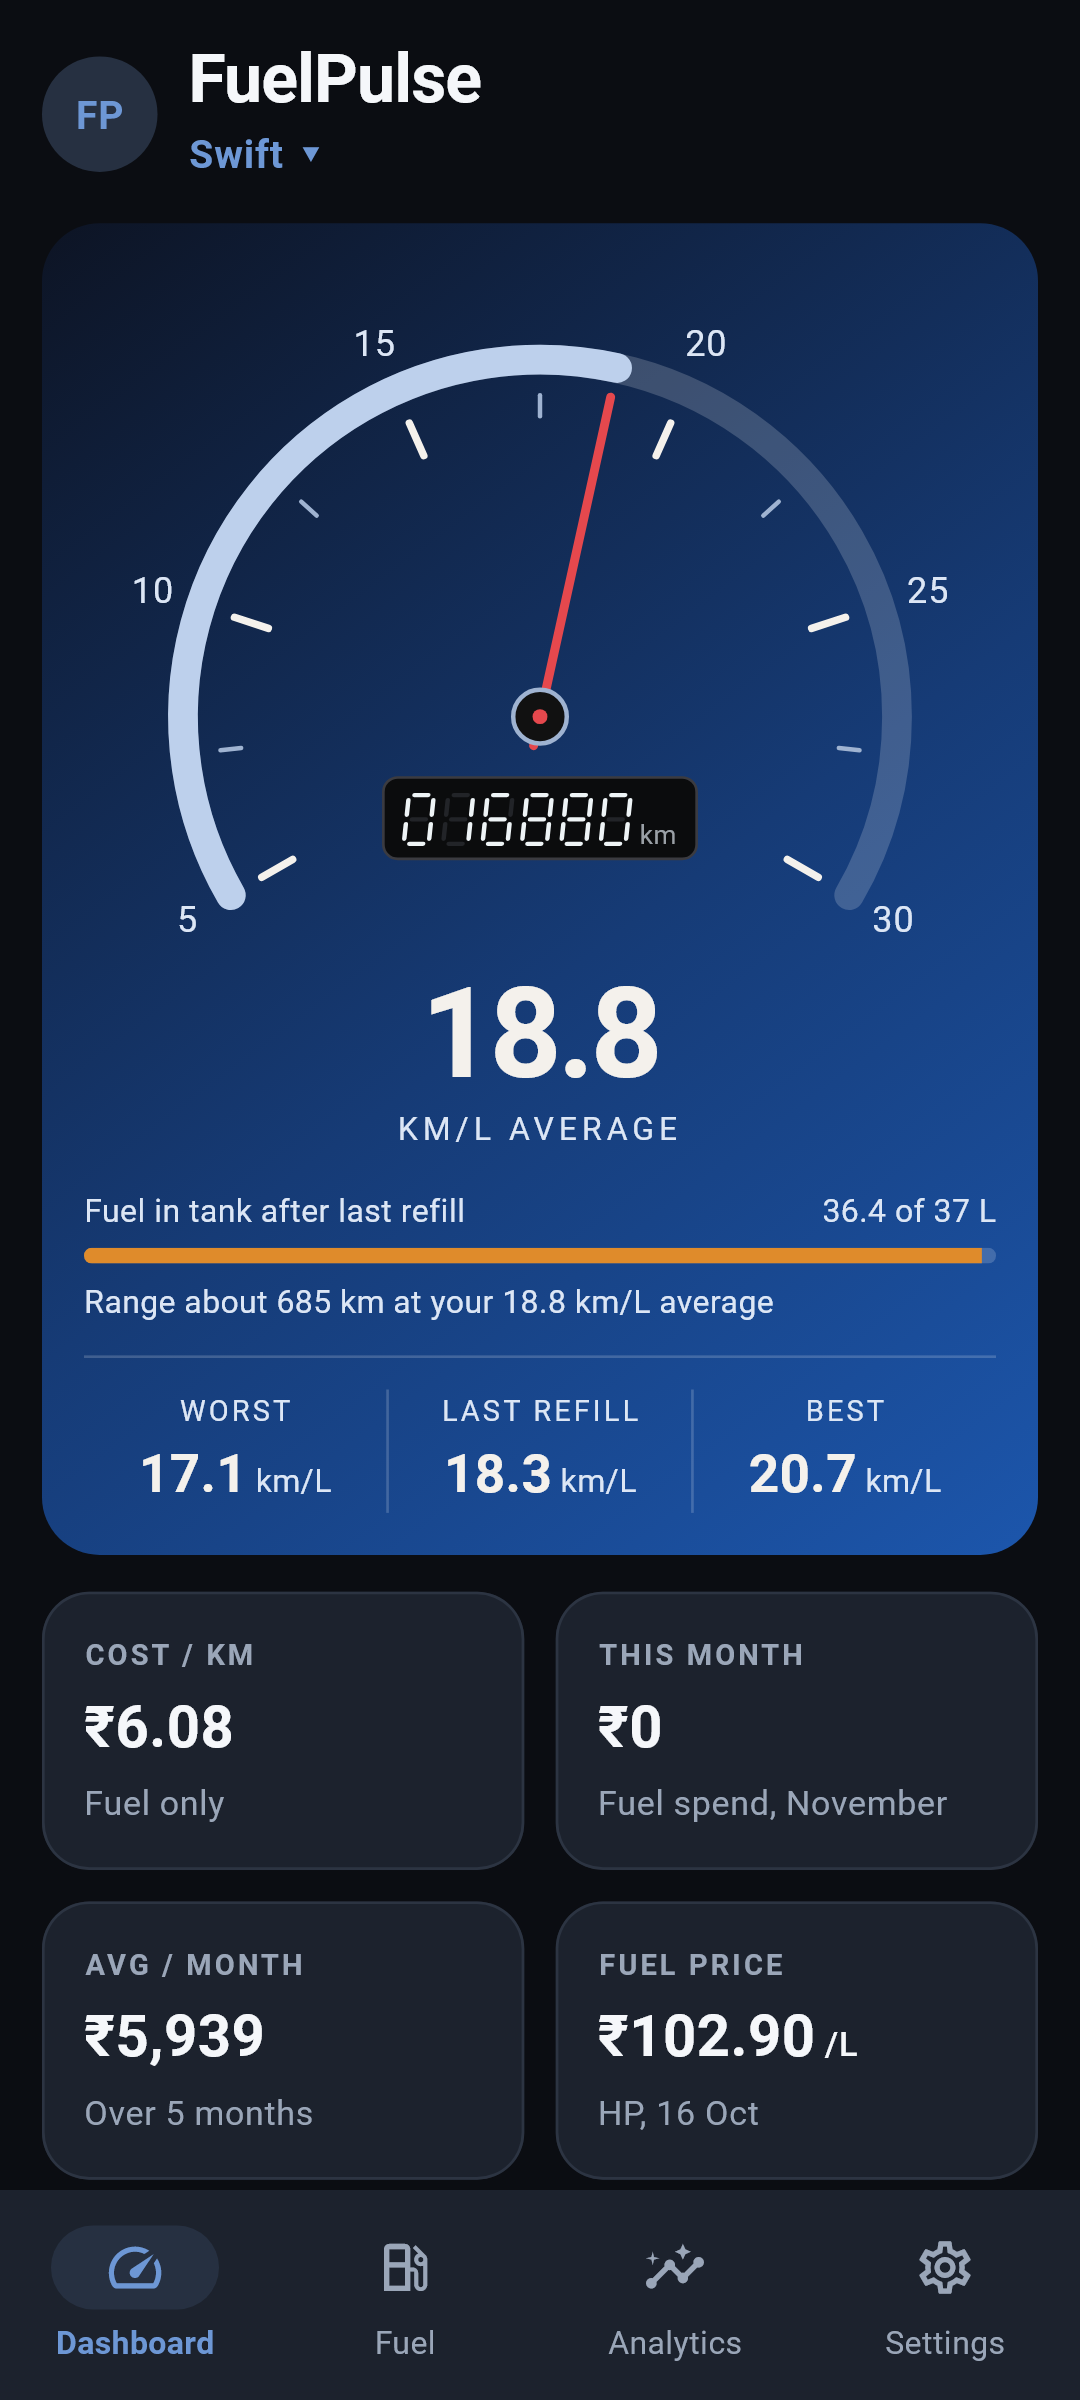
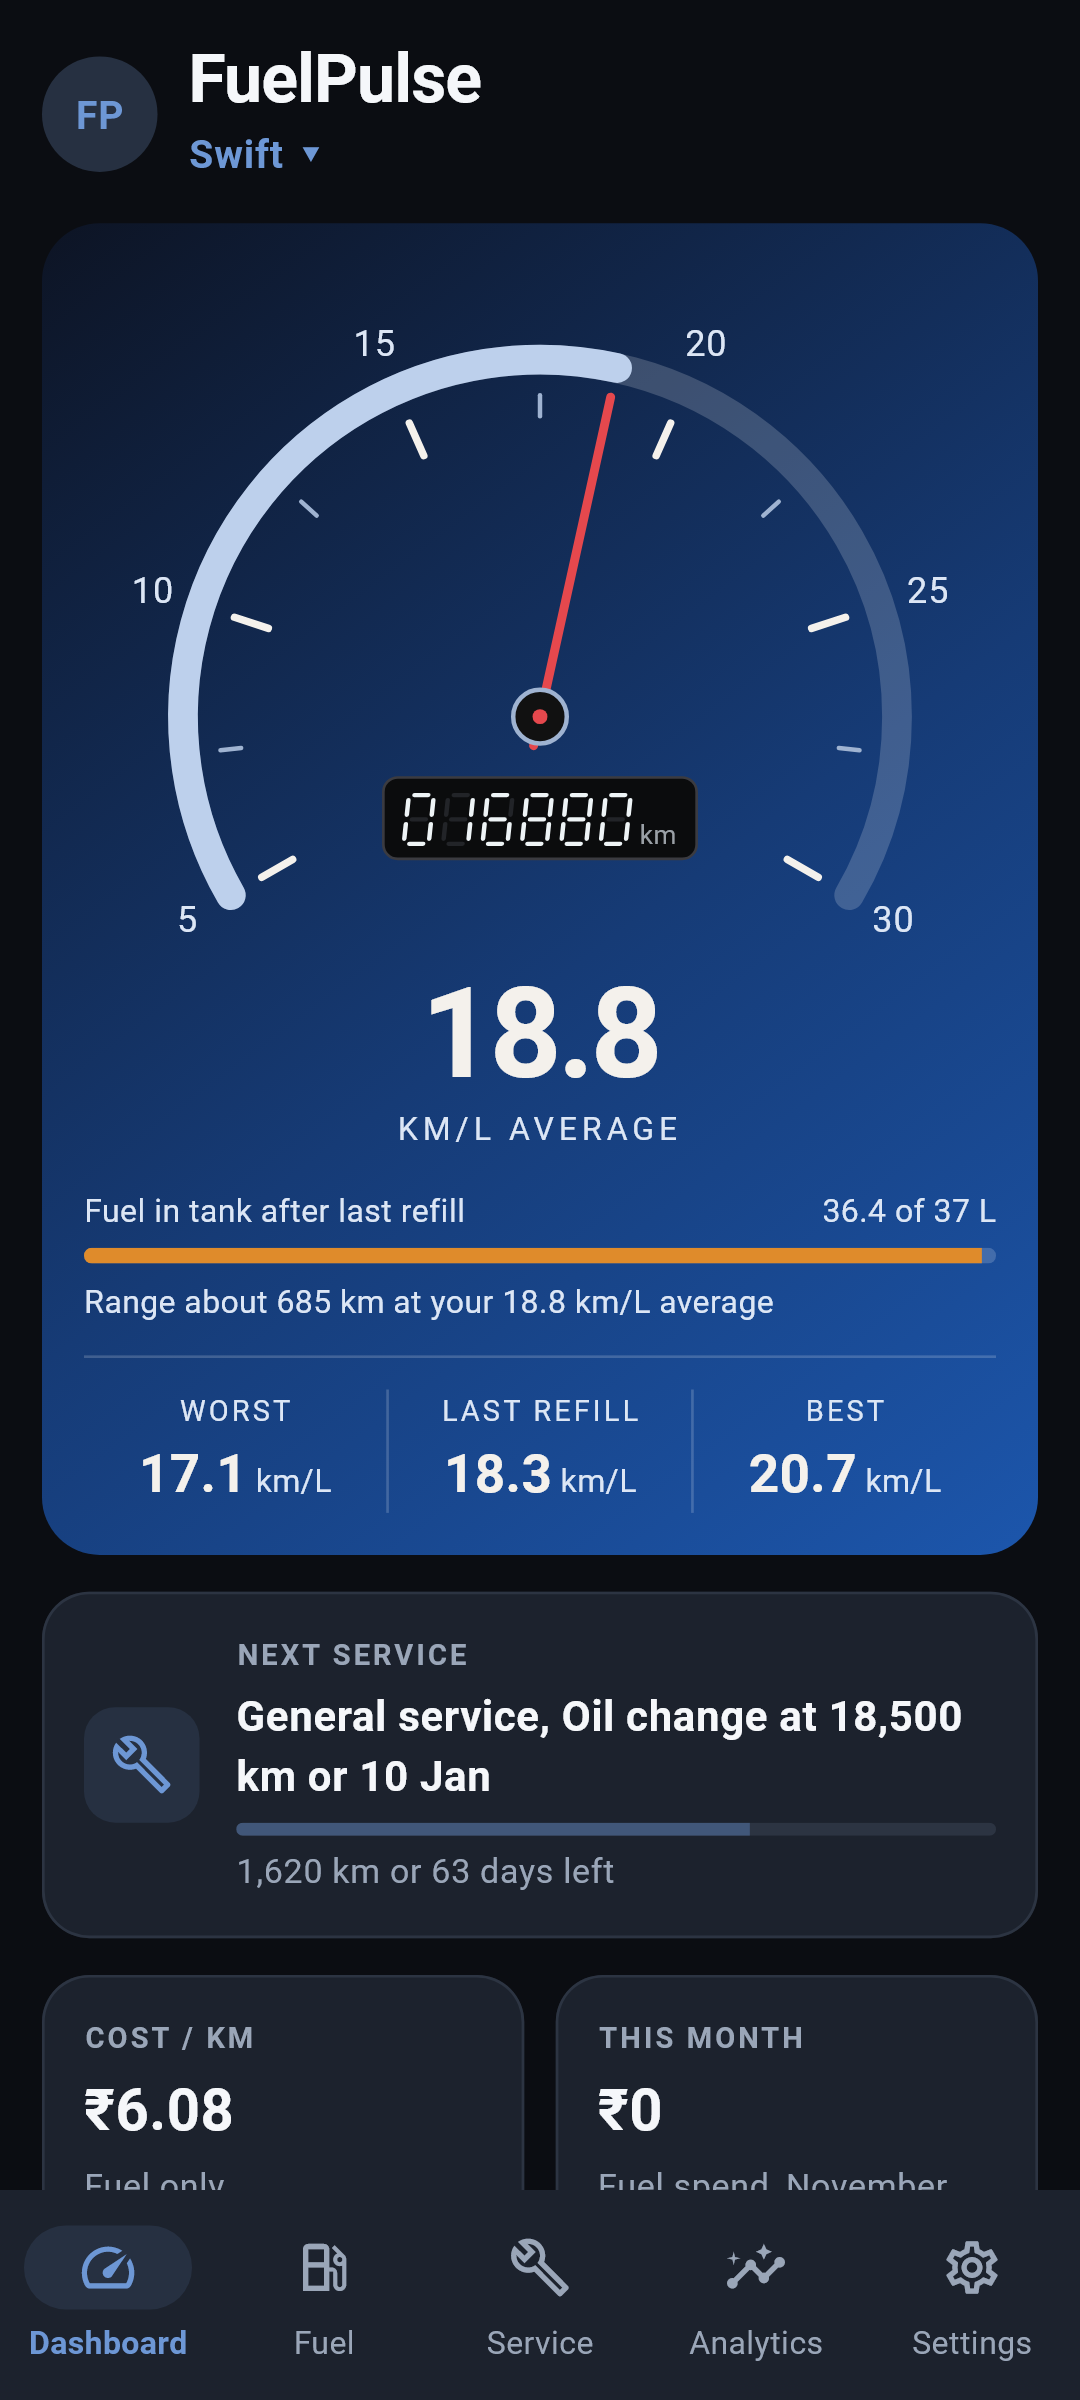
Release v3.0.0: updated the README and screenshots for services, pumps and grades, added the release notes and the regenerated plugin registrants

diff --git a/macos/Flutter/GeneratedPluginRegistrant.swift b/macos/Flutter/GeneratedPluginRegistrant.swift
@@ -7,6 +7,7 @@ import Foundation
 
 import file_picker
 import file_selector_macos
+import flutter_local_notifications
 import google_sign_in_ios
 import share_plus
 import shared_preferences_foundation
@@ -16,6 +17,7 @@ import url_launcher_macos
 func RegisterGeneratedPlugins(registry: FlutterPluginRegistry) {
   FilePickerPlugin.register(with: registry.registrar(forPlugin: "FilePickerPlugin"))
   FileSelectorPlugin.register(with: registry.registrar(forPlugin: "FileSelectorPlugin"))
+  FlutterLocalNotificationsPlugin.register(with: registry.registrar(forPlugin: "FlutterLocalNotificationsPlugin"))
   FLTGoogleSignInPlugin.register(with: registry.registrar(forPlugin: "FLTGoogleSignInPlugin"))
   SharePlusMacosPlugin.register(with: registry.registrar(forPlugin: "SharePlusMacosPlugin"))
   SharedPreferencesPlugin.register(with: registry.registrar(forPlugin: "SharedPreferencesPlugin"))

diff --git a/lib/screens/settings/data_section.dart b/lib/screens/settings/data_section.dart
@@ -151,8 +151,8 @@ class DataSection extends StatelessWidget {
         const SizedBox(height: 8),
         Text(
           'Backup files (.json.gz) carry everything: every vehicle with its '
-          'entries and costs, fuel types, pump brands and settings. CSV '
-          'carries the current vehicle\'s entries only.',
+          'entries and costs, services, pumps, workshops, brands and grades, '
+          'and settings. CSV carries the current vehicle\'s entries only.',
           style: TextStyle(color: AppColors.of(context).textSecondary, fontSize: 12),
         ),
       ],

diff --git a/README.md b/README.md
@@ -19,21 +19,25 @@ FuelPulse records every fuel fill-up and works out **real-world mileage** for ea
 | Feature | Description |
 |---|---|
 | **Dashboard** | A speedometer-style gauge with the needle on your average km/L, the odometer on a seven-segment display, fuel left after the last refill with the range it gives, worst, last and best km/L, spend tiles and the last 12 segments' mileage |
-| **Multiple vehicles** | Track a car, a bike and anything else side by side. Each vehicle has its own fill-ups, analytics and tank size; switch by tapping the vehicle name on the Dashboard or Fuel tab |
+| **Multiple vehicles** | Track a car, a bike and anything else side by side. Each vehicle has its own fill-ups, services, analytics, tank size, make and model, and mileage ranges; switch by tapping the vehicle name on the Dashboard or Fuel tab |
+| **Service records** | Log each service with its date, odometer, workshop, the work done and the cost, and schedule the next one by km, months or both. The Service tab shows what is due next and the history; the Dashboard shows the next service |
+| **Service reminders** | A phone notification at 09:00 on a due date, and one when a fill-up comes within 100 km of a due odometer reading |
+| **Petrol pumps** | Save the pumps you use as a brand and a station (Bharat Petroleum, MG Road) and star one to pre-select it in the form. Existing fill-ups get one pump per brand |
+| **Mileage ranges** | Five bands, Poor to Great, colour each km/L. Bikes and cars start with their own defaults, and each vehicle's limits can be changed |
 | **In-app updates** | Checks GitHub once a day and offers new versions. It downloads the APK for your phone's processor and installs it only if it is FuelPulse, signed with the same key and newer |
 | **Segment-based efficiency** | Calculates km/L between consecutive full-tank entries — shows the exact *"X km ÷ Y L"* breakdown |
 | **Fuel list and refill detail** | Fill-ups grouped by month with the brand logo, grade and km/L coloured from Poor to Great. Tap one to see distance, cost per km and the tank after it; swipe to delete |
-| **Analytics** | Monthly fuel spend, mileage over time, brand and fuel grade comparisons and totals. Each chart has its own period: 1, 3, 6 or 12 months |
-| **Brand comparison** | Ranks fuel brands by average efficiency, with each brand's logo |
-| **Fuel types** | Tag each fill-up with a fuel type. Normal is built in, and you can add others such as XP-95. Analytics compares km/L per type |
+| **Analytics** | Fuel: monthly spend, mileage over time, pump and fuel grade comparisons and totals. Service: monthly spend, spend by type, running cost per km with service included, and what is due. Each chart has its own period |
+| **Pump comparison** | Ranks your pumps by average km/L over 3, 6 or 12 months, brand first with its logo |
+| **Brands and fuel grades** | Each brand has its own grades (E20, Speed 97, XP100 and so on), offered as chips in the form. Analytics compares km/L per grade |
 | **Photo scan** | Fill a fill-up from photos on the Scan photos screen: the odometer (TOTAL reading, or TRIP as km travelled) and the pump display (amount, litres and rate, kept only when litres × rate matches the amount; when they disagree, the form offers amount ÷ rate as the litres). Gallery photos also set the date. Text is read on the phone and nothing is uploaded. A Report button shares what was read, with the photo, when a scan goes wrong |
 | **Cost tracking** | Enter the price per litre or the total paid and the app fills in the other. The Dashboard shows cost per km, this month's and the average monthly spend, and the latest price |
 | **Date and time** | Each fill-up has an editable date and time, so a fill-up logged later lands in the right place |
-| **Pump brand management** | Add, rename and remove pump brands. A rename updates every past fill-up |
+| **Brand management** | Add, rename and remove brands and their grades. A rename updates every past fill-up |
 | **Tank level estimation** | Forward-walk model estimates remaining litres at each fill-up |
 | **Full / Partial fill tracking** | Handles both full-tank and partial-fill entries correctly |
-| **CSV import / export** | Export or import the current vehicle's fill-ups as CSV |
-| **Backup file** | Export one compressed file with every vehicle, its fill-ups, fuel types, pump brands and settings, and restore it on any phone |
+| **CSV import / export** | Export or import the current vehicle's fill-ups as CSV, and import services from a CSV template |
+| **Backup file** | Export one compressed file with every vehicle, its fill-ups and services, pumps, workshops, brands and grades, and settings, and restore it on any phone |
 | **Google Drive backup** | Optional daily, weekly or monthly upload of the same backup file. The app can only see files it created in your Drive |
 | **Brand logos** | Shell, HP, Indian Oil, Bharat Petroleum, Nayara Energy and Jio-BP show their own logos; other brands show initials |
 | **Light and dark themes** | Light, dark or follow the phone, with 15 colour palettes. Each palette pairs a primary colour with a partner colour for spend bars and the tank level |
@@ -47,8 +51,10 @@ FuelPulse records every fuel fill-up and works out **real-world mileage** for ea
 | ![Dashboard with the mileage gauge and spend tiles](screenshots/dashboard.png) | ![Dashboard in dark mode](screenshots/dashboard_dark.png) |
 | **Fuel** | **Refill** |
 | ![Fill-ups grouped by month](screenshots/fuel.png) | ![One refill in detail](screenshots/refill.png) |
-| **Add fill-up** | **Analytics** |
-| ![Add fill-up form](screenshots/add_fill_up.png) | ![Monthly spend and mileage charts](screenshots/analytics.png) |
+| **Add fill-up** | **Service** |
+| ![Add fill-up form](screenshots/add_fill_up.png) | ![Next scheduled service and history](screenshots/service.png) |
+| **Analytics, fuel** | **Analytics, service** |
+| ![Monthly spend and mileage charts](screenshots/analytics.png) | ![Service spend, cost per km and upcoming services](screenshots/analytics_service.png) |
 | **Appearance** | |
 | ![Theme mode and the 15 colour palettes](screenshots/appearance.png) | |
 The screenshots come from sample data rendered offscreen. To regenerate them, run:
@@ -67,6 +73,7 @@ flutter test tool/readme_screenshots_test.dart --update-goldens
 - **Backup:** [file_picker](https://pub.dev/packages/file_picker) for restore, [google_sign_in](https://pub.dev/packages/google_sign_in) + [googleapis](https://pub.dev/packages/googleapis) for Drive
 - **Photo scan:** [google_mlkit_text_recognition](https://pub.dev/packages/google_mlkit_text_recognition) for on-device text recognition, [image_picker](https://pub.dev/packages/image_picker) for the camera and gallery
 - **Charts:** drawn with `CustomPaint`, no chart package
+- **Reminders:** [flutter_local_notifications](https://pub.dev/packages/flutter_local_notifications) and [timezone](https://pub.dev/packages/timezone) for service notifications
 - **Updates:** [http](https://pub.dev/packages/http) for the GitHub release check and download, a Kotlin `PackageInstaller` bridge for the install, [url_launcher](https://pub.dev/packages/url_launcher) for the release page
 - **Theming:** a `ThemeExtension` (`AppColors`) built from the chosen palette and light or dark mode, so screens never hard-code a colour
 
@@ -79,7 +86,11 @@ lib/
 │   └── database_helper.dart   # SQLite CRUD operations
 ├── models/
 │   ├── fuel_log.dart          # FuelLog data model
-│   └── vehicle.dart           # Vehicle data model
+│   ├── vehicle.dart           # Vehicle data model
+│   ├── pump.dart              # A brand's station
+│   ├── workshop.dart          # Garage or service centre
+│   ├── service_type.dart      # Kind of service work and its interval
+│   └── service_record.dart    # One service visit and its next due
 ├── theme/
 │   ├── palettes.dart          # The 15 colour palettes
 │   ├── app_colors.dart        # Colours for the chosen palette and mode
@@ -91,17 +102,26 @@ lib/
 │   ├── refill_detail_screen.dart # One fill-up in full
 │   ├── entry_form_screen.dart # Add or edit a fill-up
 │   ├── scan_photos_screen.dart # Odometer and pump photo slots
-│   ├── analytics_screen.dart  # Spend, mileage, brand and grade comparisons
+│   ├── service_screen.dart    # Next scheduled service and history
+│   ├── service_form_screen.dart # Add or edit a service
+│   ├── analytics_screen.dart  # Fuel and service analytics
 │   ├── settings_screen.dart   # Settings, one section per file below
 │   ├── appearance_screen.dart # Theme mode and palette
+│   ├── pumps_screen.dart      # Petrol pumps
+│   ├── brands_screen.dart     # Brands and their fuel grades
+│   ├── workshops_screen.dart  # Workshops
+│   ├── service_types_screen.dart # Service types and intervals
+│   ├── vehicle_edit_screen.dart # Add or edit a vehicle
+│   ├── mileage_ranges_screen.dart # A vehicle's km/L bands
 │   ├── import_export_screen.dart # CSV, backup file and Drive backup
-│   └── settings/              # Vehicles, lists, data, Drive, about, danger zone
+│   └── settings/              # Vehicles, data, Drive, about, danger zone
 ├── services/
 │   ├── backup_payload.dart    # Build and restore the backup contents
 │   ├── backup_codec.dart      # Gzip encode/decode of the backup
 │   ├── backup_file.dart       # Export/import the backup as a file
 │   ├── drive_backup_service.dart # Scheduled Google Drive backup
 │   ├── photo_scan.dart        # Odometer and pump photo reading, scan report
+│   ├── service_reminders.dart # Service notifications
 │   ├── update_service.dart    # GitHub release check
 │   ├── update_downloader.dart # Checked APK download
 │   ├── update_installer.dart  # Bridge to the Kotlin installer
@@ -114,8 +134,9 @@ lib/
 │   ├── mileage_bands.dart          # Poor to Great km/L bands and colours
 │   ├── period_filter.dart          # Logs for the last N months
 │   ├── appearance_prefs.dart       # Saved palette and theme mode
-│   ├── fuel_type_manager.dart      # Fuel type list (add, rename, delete)
-│   ├── pump_brand_manager.dart     # Pump brand list (add, rename, delete)
+│   ├── brand_grades.dart           # Brands and their fuel grades
+│   ├── service_schedule.dart       # Which service is due next
+│   ├── service_csv.dart            # Service CSV template and import
 │   ├── vehicle_manager.dart        # Active vehicle
 │   ├── csv_helper.dart             # CSV import/export
 │   ├── page_routes.dart            # Smooth fade+slide transitions

diff --git a/release-notes/v3.0.0.md b/release-notes/v3.0.0.md
@@ -1,0 +1,16 @@
+## What's new
+
+- **Service records.** A new Service tab keeps each vehicle's services: date, odometer, workshop, the work done and what it cost. Schedule the next one by km, by months or both, and the tab shows what is due and how far off it is. The Dashboard shows the next service too.
+- **Service reminders.** FuelPulse notifies you at 09:00 on the day a service is due, and when a fill-up brings the odometer within 100 km of a due reading. The first time you schedule a service, Android asks whether FuelPulse may send notifications.
+- **Petrol pumps.** Save the pumps you use as a brand and a station, such as Bharat Petroleum, MG Road. Star the one you use most and the refill form picks it for you. Your existing fill-ups get one pump per brand automatically.
+- **Fuel grades per brand.** Each brand now has its own grades: Speed and Speed 97 at Bharat Petroleum, XP95 and XP100 at Indian Oil, and so on. The form shows them as chips for the pump you picked. Your old fuel types stay on every brand, so nothing you logged loses its grade.
+- **Pump comparison.** Analytics ranks your pumps by km/L. A Fuel and Service switch adds service spend by month and by type, your running cost per km with servicing included, and what is coming up.
+- **Your own mileage ranges.** Each vehicle can set where Poor, Low, Fair, Good and Great start. Bikes and cars begin with their own defaults.
+- **Vehicle details.** A vehicle now has a make and model, and editing it opens a full page.
+- **Services from a spreadsheet.** Import and export has a service CSV template and an import that creates any missing workshop or service type.
+
+## Before you update
+
+- This update installs over v2.0.0 and later with your data intact. The in-app updater offers it, or download `app-arm64-v8a-release.apk`.
+- The first launch upgrades the database and keeps a copy of the old one beside it, in case anything goes wrong.
+- Backup files made by v3.0.0 restore only in v3.0.0 or later. Backups from older versions still restore here.
